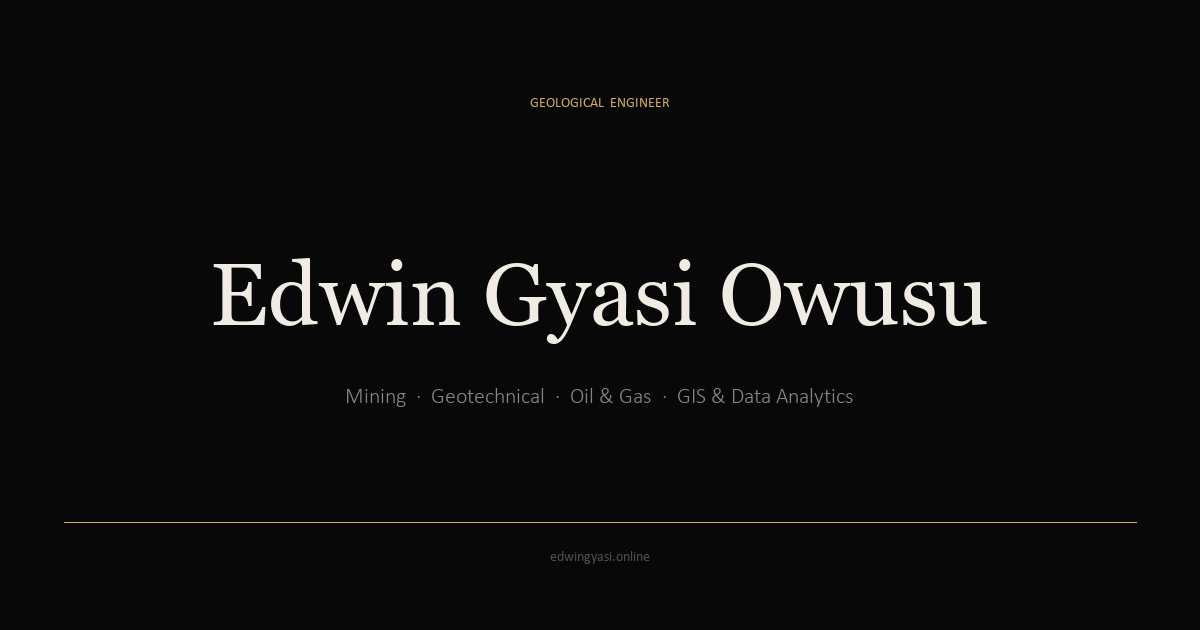
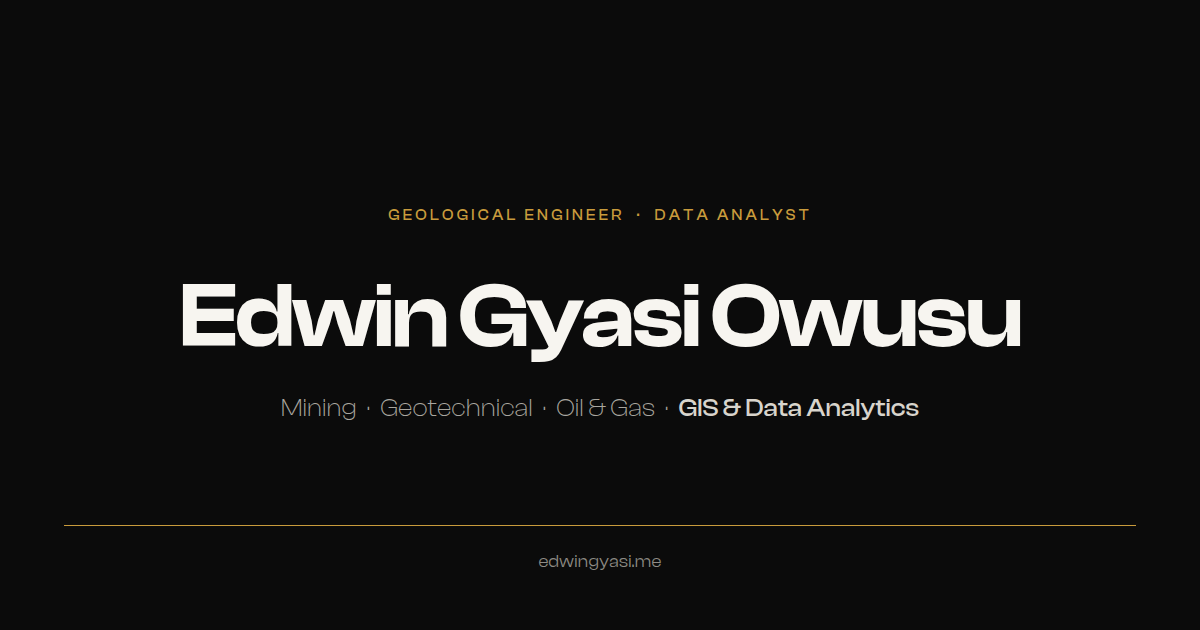
Redraw the engineering share card for the new domain
The old og-engineering.png had edwingyasi.online printed into the
artwork, so every WhatsApp and LinkedIn share showed the previous domain
regardless of what the meta tags said. It was also set in a serif the
site stopped using when Clash Display arrived.

Rebuilt at 1200x630 in Clash Display, and the eyebrow now reads
Geological Engineer, Data Analyst, which is what the owner is applying
for.

Worth remembering: a share card with the domain drawn into it is a
hidden domain dependency. buildDomainFiles cannot reach pixels.

Claude-Session: https://claude.ai/code/session_013fxUdJRsSZsgvhebHsmS6e

diff --git a/CLAUDE.md b/CLAUDE.md
@@ -387,6 +387,27 @@ Outside the repo, and only the owner can do these:
 
 ## Updates Log
 
+- 2026-08-05: **`og-engineering.png` regenerated.** The old card had
+  `edwingyasi.online` printed into the artwork, so every share showed the
+  previous domain no matter what the tags said, and it was set in a serif the
+  site stopped using when Clash Display arrived. Rebuilt at 1200x630 in Clash
+  Display, naming Data Analyst beside Geological Engineer, since that is what
+  the owner is applying for.
+
+  Rendered by screenshotting a 1200x630 HTML page in headless Chromium, served
+  over **http://** from the repo root so the self-hosted `@font-face` resolves.
+  A `file://` page does not load the font and silently falls back.
+
+  **A share card carrying the domain as artwork is a hidden domain dependency.**
+  `buildDomainFiles()` cannot reach pixels. If the site moves again, this file
+  has to be redrawn by hand.
+
+  Still stale and not fixed here: `og-designs.png` is a screenshot of the Eon
+  site's **dark** theme, replaced by the light one on 2026-08-01, and it is
+  cropped mid-logo. It needs Playfair Display, which is loaded from Google
+  Fonts and unreachable from this sandbox, so redrawing it would have meant
+  substituting the wrong typeface.
+
 - 2026-08-05: **Case studies are a CMS folder collection now**, not three
   hand-written HTML pages. The owner can publish one from the panel, which
   matters because his coding-agent access is finite and a page that needs code
